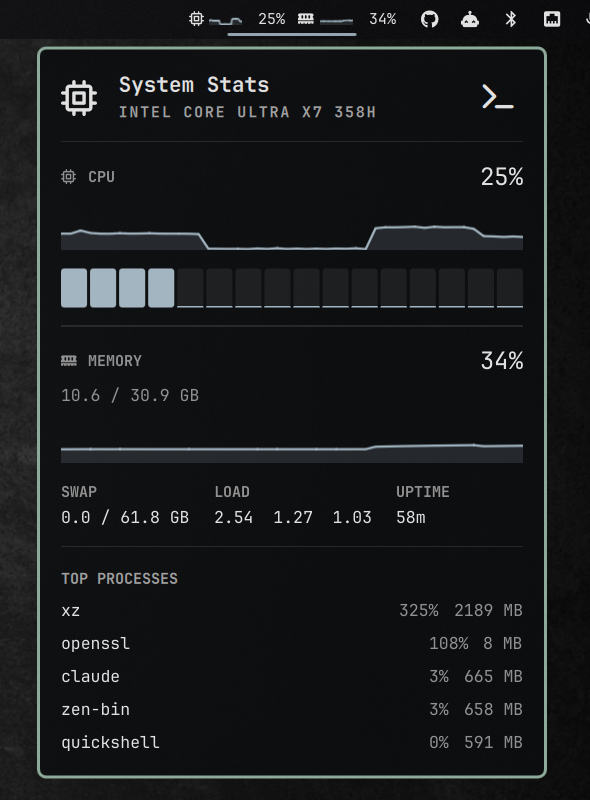
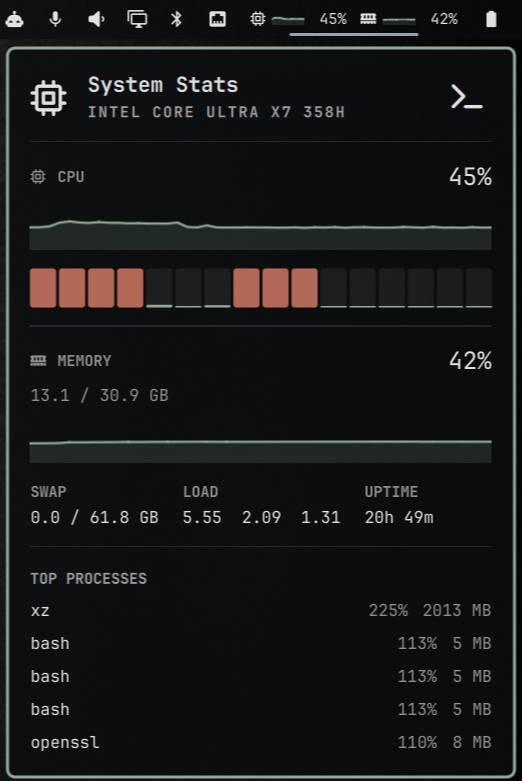
feat: color charts from theme tokens, alerting per core

diff --git a/Panel.qml b/Panel.qml
@@ -20,6 +20,8 @@ Panel {
   readonly property bool showSparklines: setting("sparklines", true)
   readonly property int topProcessCount: Math.max(0, setting("topProcesses", 5))
   readonly property int alertPercent: setting("alertPercent", 90)
+  readonly property string chartColorToken: setting("chartColor", Color.pick("stats.chart", "accent"))
+  readonly property string chartAlertColorToken: setting("chartAlertColor", Color.pick("stats.chart-alert", "urgent"))
   readonly property bool showCores: setting("cores", true)
   readonly property string cpuIcon: setting("cpuIcon", "")
   readonly property string memoryIcon: setting("memoryIcon", "")
@@ -33,6 +35,24 @@ Panel {
   readonly property color urgent: bar ? bar.urgent : Color.urgent
   readonly property color dim: Qt.darker(panelText, 1.55)
   readonly property string fontFamily: bar ? bar.fontFamily : Style.font.family
+
+  // Chart colors are theme *token references*, not literals, resolved in three
+  // steps: an explicit per-instance setting, else a `[stats]` section the theme
+  // published in its own shell.*.toml, else accent/urgent, which every theme
+  // has. Color.flatColor then accepts a role name ("accent", "urgent"), any
+  // shell.toml key ("hyprland.active-border"), or a plain hex — and re-resolves
+  // on theme switch, because both it and Color.pick read Color.shellValues.
+  //
+  // The theme step matters because Quattro's palette has no green: colors.toml
+  // `red`/`color1` becomes Color.urgent, but `color2` never gets a semantic
+  // name. Letting the theme name its own chart colors keeps that decision where
+  // the rest of the palette lives, instead of in every user's shell.json.
+  readonly property color chartColor: Color.flatColor(chartColorToken, Color.accent)
+  readonly property color chartAlertColor: Color.flatColor(chartAlertColorToken, Color.urgent)
+
+  function chartColorFor(fraction) {
+    return fraction * 100 >= alertPercent ? chartAlertColor : chartColor
+  }
 
   property var topProcesses: []
 
@@ -137,7 +157,7 @@ Panel {
         showSparkline: root.showSparklines && !root.vertical
         fontFamily: root.fontFamily
         textColor: root.alertColor(stats.cpuFraction, root.foreground)
-        accentColor: root.accent
+        accentColor: root.chartColorFor(stats.cpuFraction)
       }
 
       BarMetric {
@@ -147,7 +167,7 @@ Panel {
         showSparkline: root.showSparklines && !root.vertical
         fontFamily: root.fontFamily
         textColor: root.alertColor(stats.memFraction, root.foreground)
-        accentColor: root.accent
+        accentColor: root.chartColorFor(stats.memFraction)
       }
     }
   }
@@ -229,7 +249,7 @@ Panel {
           fontFamily: root.fontFamily
           textColor: root.panelText
           dimColor: root.dim
-          lineColor: root.alertColor(stats.cpuFraction, root.accent)
+          lineColor: root.chartColorFor(stats.cpuFraction)
         }
 
         // Per-core load. A column per core reads as one shape, so an
@@ -262,9 +282,10 @@ Panel {
                 anchors.bottom: parent.bottom
                 height: Math.max(1, parent.height * Math.max(0, Math.min(1, modelData)))
                 radius: parent.radius
-                // Deliberately not the alert color: one pinned core is what a
-                // build looks like, not a problem. Only the aggregate warns.
-                color: root.accent
+                // Each core alerts on its own load, against the same threshold
+                // as the aggregate — a saturated core is worth seeing even when
+                // the average across 16 of them stays calm.
+                color: root.chartColorFor(modelData)
 
                 Behavior on height {
                   NumberAnimation { duration: 220; easing.type: Easing.OutCubic }
@@ -287,7 +308,7 @@ Panel {
           fontFamily: root.fontFamily
           textColor: root.panelText
           dimColor: root.dim
-          lineColor: root.alertColor(stats.memFraction, root.accent)
+          lineColor: root.chartColorFor(stats.memFraction)
         }
 
         // Facts that do not deserve a chart.

diff --git a/README.md b/README.md
@@ -52,7 +52,9 @@ Per-instance, in the widget's entry in `~/.config/omarchy/shell.json`:
 | `sparklines` | `true` | History strips next to the bar percentages |
 | `cores` | `true` | Per-core meters in the panel |
 | `topProcesses` | `5` | Rows in the process list; `0` removes it entirely |
-| `alertPercent` | `90` | Usage at or above this turns the readout the theme's urgent color |
+| `alertPercent` | `90` | Usage at or above this switches the readout and its chart to the alert color |
+| `chartColor` | *theme, else `accent`* | Theme token for sparklines and core meters below the threshold |
+| `chartAlertColor` | *theme, else `urgent`* | Theme token for sparklines at or above it |
 | `cpuIcon` / `memoryIcon` | `` / `` | Glyphs, for fonts that lack these |
 | `clickCommand` | `omarchy-launch-or-focus-tui btop` | Run on right-click and from the panel header; empty hides the header button |
 
@@ -63,8 +65,42 @@ Per-instance, in the widget's entry in `~/.config/omarchy/shell.json`:
 The header button labels itself from the command it runs — point
 `clickCommand` at `htop` and its tooltip reads "Open htop".
 
-Colors come from the active Omarchy theme — accent for the charts, urgent
-above the alert threshold — so it follows `omarchy theme set`.
+## Colors
+
+Nothing is hardcoded: every color is a *token* resolved against the active
+theme, so the widget follows `omarchy theme set` without configuration.
+
+Chart colors resolve in three steps, and you normally touch none of them:
+
+1. `chartColor` / `chartAlertColor` on the widget, if set
+2. a `[stats]` section published by the active theme
+3. `accent` and `urgent`, which every theme has
+
+### Themes: publishing your own chart colors
+
+Step 2 exists because Quattro's palette has no green. `red` / `color1` from
+`colors.toml` becomes `urgent`, but `color2` never gets a semantic name, so a
+theme's green is unreachable by any standard role.
+
+`omarchy-theme-set-templates` globs every `shell.*.toml` in a theme directory
+and appends the section when the generated `shell.toml` has no block by that
+name — so a theme can ship a `shell.stats.toml` and have it picked up with no
+configuration on the user's side:
+
+```toml
+# shell.stats.toml — becomes [stats] in the generated shell.toml
+chart       = "#8DAA9A"
+chart-alert = "#b46958"
+```
+
+Both accept the same forms as the settings: a palette role (`accent`,
+`urgent`, `muted`, `foreground`), another `shell.toml` key such as
+`hyprland.active-border`, or a literal `#rrggbb`. Everything re-resolves on
+`omarchy theme set`, so nothing needs restarting.
+
+Per-core meters alert on their own load against the same threshold, so a
+couple of saturated cores show up red while the aggregate chart is still
+calm — which is exactly what a parallel build looks like.
 
 ## What the numbers mean
 
